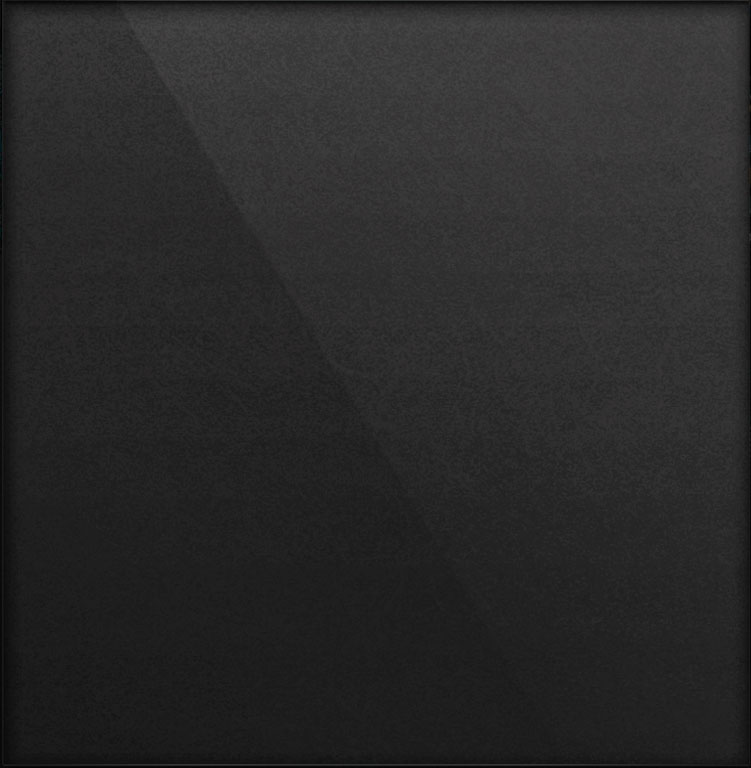
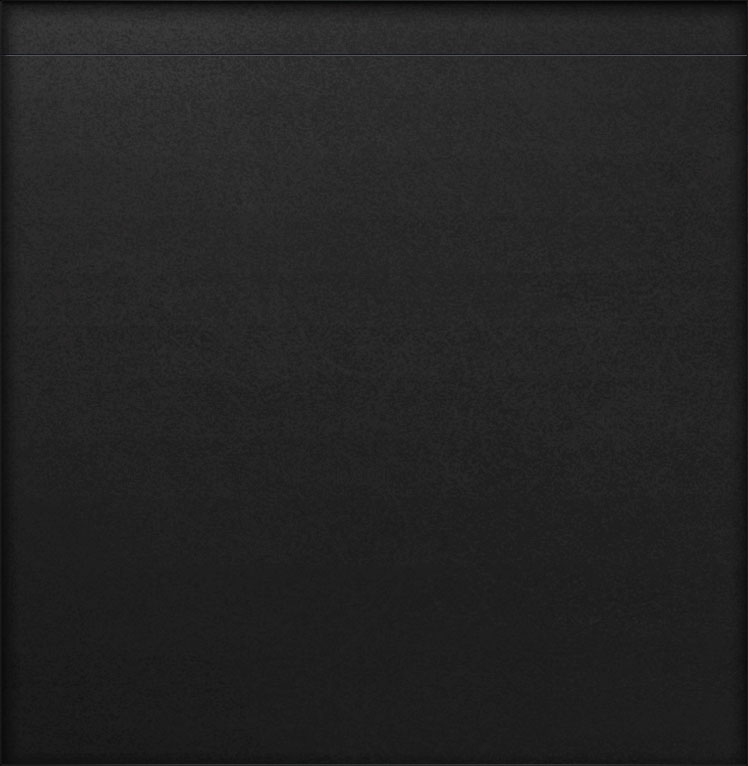
create mission progress

Changed region(s): [[0.0615, 0.9909, 0.9532, 1.0], [0.8917, 0.03, 0.984, 0.0901]]

diff --git a/public_html/public/css/CodeArmyV1/style.css b/public_html/public/css/CodeArmyV1/style.css
@@ -1469,8 +1469,8 @@ div#compose-area .lnkimg {
 .create-mission-container {
 	background: url("/public/images/codeArmy/mission/create-mission-bg.jpg") no-repeat;
 	position:relative;
-	height:768px;
-	width:751px;
+	height:766px;
+	width:748px;
 }
 .create-mission-title {
 	color: white;
@@ -1482,7 +1482,7 @@ div#compose-area .lnkimg {
     width: 100%;
 	text-align:center;
 }
-.create-mission-info, .mission-desc-video {
+.create-mission-info, .mission-desc-video, .mission-type-n-skills {
 	width:100%;
 	float:left;
 	margin: 0 10px;
@@ -1523,7 +1523,7 @@ div#compose-area .lnkimg {
 .mission-video-preview {
 	padding:10px 12px;
 }
-.examples-link {
+.examples-link a {
 	float:right;
 	padding-right: 15px;
 	color:#ffcc00;
@@ -1531,6 +1531,68 @@ div#compose-area .lnkimg {
 	text-decoration:underline;
 }
 .desc-title-text {
+	color:#fff;
+}
+.mission-description textarea {
+	background: url("/public/images/codeArmy/mission/textarea-box-bg.jpg") no-repeat;
+    border: medium none;
+    color: #FFFFFF;
+    float: left;
+    margin: 7px 0;
+	height:106px;
+	padding: 5px;
+    width: 95%;
+}
+.attach-file-tools {
+	float:left;
+	width:95%;
+	font-size:10.42px;
+}
+.attach-file-tools .filename a {
+	color: #FFCC00;
+	padding:0 5px;
+}
+.attach-file-tools .filesize, .attach-file-tools .filedesc {
+	color:#666;
+	padding:0 5px;
+}
+.attach-file-tools .filesize {
+	font-style:italic;
+}
+.attach-file-tools .binicon {
+	float:right;
+	padding-right:10px;
+}
+.mission-type, .skills-required {
+	float:left;
+	width:45%;
+	position:relative;
+}
+.create-mission-container select {
+	background: url("/public/images/codeArmy/profile/text-input-bg.gif") repeat-x scroll 0 0 transparent;
+    border: medium none;
+    border-radius: 3px 3px 3px 3px;
+    box-shadow: 1px 1px 1px #636363;
+    color: #FFFFFF;
+    float: right;
+    font-family: 'Ruda',sans-serif;
+    font-size: 14px;
+    height: 22px;
+    margin: 5px;
+    padding-left: 10px;
+}
+.mission-type-main {
+    width:90%;
+}
+.mission-type-sub {
+    width:85%;
+	float:right;
+}
+.mission-type-n-skills {
+	margin:10px;
+}
+.mission-type-title, .skills-required-title {
+	padding-left:30px;
 	color:#fff;
 }
 /* END - New Codes by Reza */

diff --git a/public_html/application/views/create_mission_codearmy_view.php b/public_html/application/views/create_mission_codearmy_view.php
@@ -1,0 +1,47 @@
+<link href="/public/css/CodeArmyV1/style.css" media="all" rel="stylesheet" type="text/css" />
+
+<div class="create-mission-container">
+  <div class="create-mission-title">Create Mission</div>
+  <div class="create-mission-info">
+    <div class="mission-title">
+      <label>Mission Title</label>
+      <input type="text" id="mission-title" name="mission-title" value="ACME Coperation" />
+    </div>
+    <div class="mission-video-url">
+      <label>Mission Video</label>
+      <input type="text" id="mission-title" name="mission-title" value="ACME Coperation" />
+    </div>
+  </div>
+  <div class="mission-desc-video">
+    <div class="mission-description">
+      <div><span class="desc-title-text">Description</span><span class="examples-link"><a href="#">Examples</a></span></div>
+      <textarea rows="7" id="mission-desc-text" name="mission-desc-text"></textarea>
+      <div class="attach-file-tools"> <a href="#"><img src="/public/images/codeArmy/mission/fileicon.png" class="fileicon" /></a> <span class="filename"><a href="#">Project-brief.ppt</a></span> <span class="filesize">(250kb)</span> <span class="filedesc">Acme online store brief...</span> <a href="#"><img src="/public/images/codeArmy/mission/binicon.png" class="binicon" /></a> </div>
+      <div class="attach-file-tools"> <a href="#"><img src="/public/images/codeArmy/mission/fileicon.png" class="fileicon" /></a> <span class="filename"><a href="#">Project-brief.ppt</a></span> <span class="filesize">(250kb)</span> <span class="filedesc">Acme online store brief...</span> <a href="#"><img src="/public/images/codeArmy/mission/binicon.png" class="binicon" /></a> </div>
+      <input type="submit" class="lnkimg" value="Attach">
+    </div>
+    <div class="mission-video-preview">
+      <iframe class="youtube-player" type="text/html" width="330" height="216" src="http://www.youtube.com/embed/zFNb8j3YAd4?wmode=opaque" frameborder="0"></iframe>
+    </div>
+  </div>
+  <div class="mission-type-n-skills">
+  
+  <div class="mission-type">
+  <span class="mission-type-title">Mission Type</span>
+  <select class="mission-type-main">
+  <option>Main Category</option>
+  </select>
+  
+  <select class="mission-type-sub">
+  <option>Sub Category</option>
+  </select>
+  
+  </div>
+  
+  <div class="skills-required">
+  <span class="skills-required-title">Skills Required</span>
+  
+  </div>
+  
+  </div>
+</div>

diff --git a/public_html/application/controllers/missions.php b/public_html/application/controllers/missions.php
@@ -76,7 +76,7 @@ class Missions extends CI_Controller {
 	
 	function create(){
 		$this->view_data['window_title'] = "Mission Create";
-		$this->load->view('aboutus_codearmy_view', $this->view_data);
+		$this->load->view('create_mission_codearmy_view', $this->view_data);
 	}
 	
 	function ajax_mission_map_search(){
